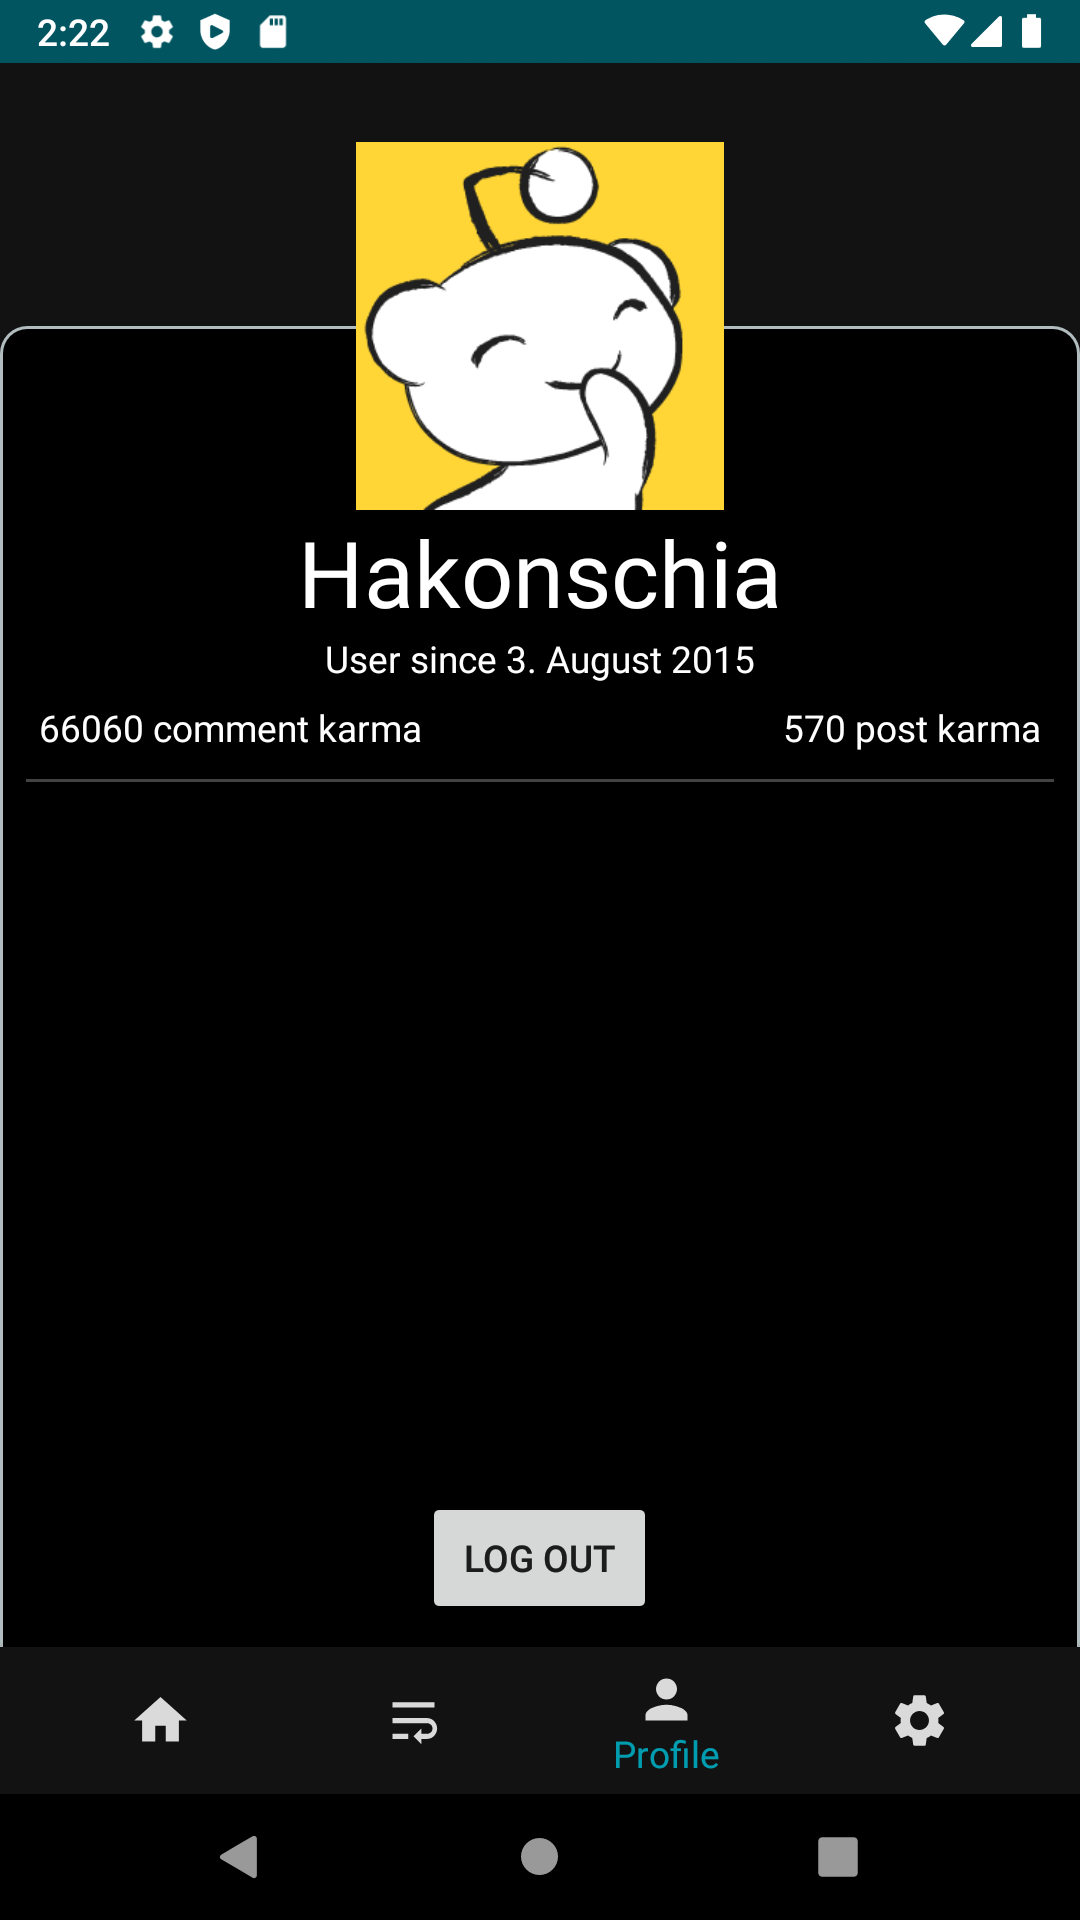
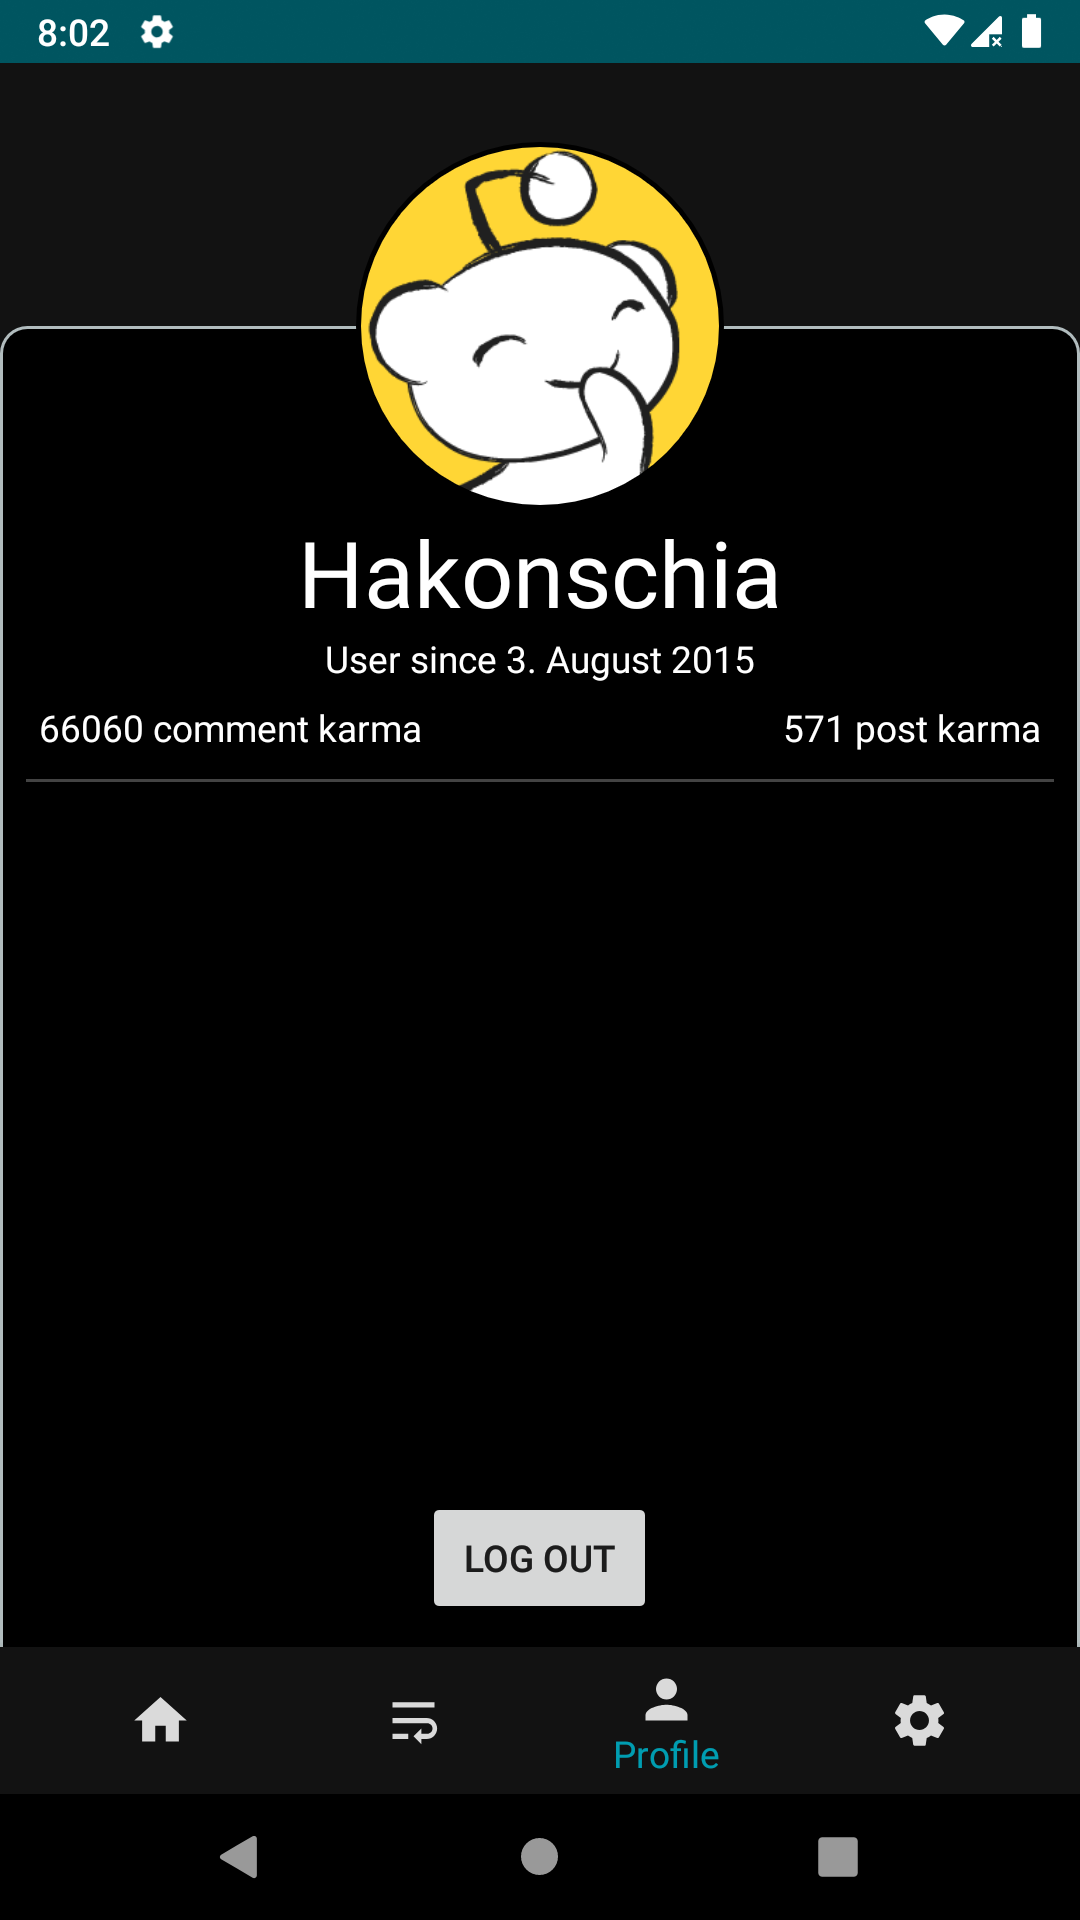
Add CircleImageView, update profile picture and subreddits list to use this

diff --git a/app/app/src/main/java/com/example/hakonsreader/fragments/SelectSubredditFragment.java b/app/app/src/main/java/com/example/hakonsreader/fragments/SelectSubredditFragment.java
@@ -49,6 +49,7 @@ public class SelectSubredditFragment extends Fragment {
         App.get().getApi().favoriteSubreddit(subreddit.getName(), !subreddit.userHasFavorited(), ignored -> {
             subreddit.setUserHasFavorited(!subreddit.userHasFavorited());
             subredditsAdapter.onFavorite(subreddit);
+            // TODO this should update the local database as well
         }, (code, t) -> {
             t.printStackTrace();
             Util.handleGenericResponseErrors(getView(), code, t);

diff --git a/README.md b/README.md
@@ -28,6 +28,7 @@ To retrieve the latest version clone the repository and install manually via And
 * [Picasso](https://github.com/square/picasso) - Used to download, cache, and process images
 * [Slidr](https://github.com/r0adkll/Slidr) - To (very) easily create swipeable activities
 * [zoomage](https://github.com/jsibbold/zoomage) - For zoomable ImageViews
+* [CircleImageView](https://github.com/hdodenhof/CircleImageView) - To create circular ImageViews
 * [Markwon](https://github.com/noties/Markwon) - For rendering of markdown text in TextViews
 * [ExoPlayer](https://github.com/google/ExoPlayer) - Used for playing videos
 
